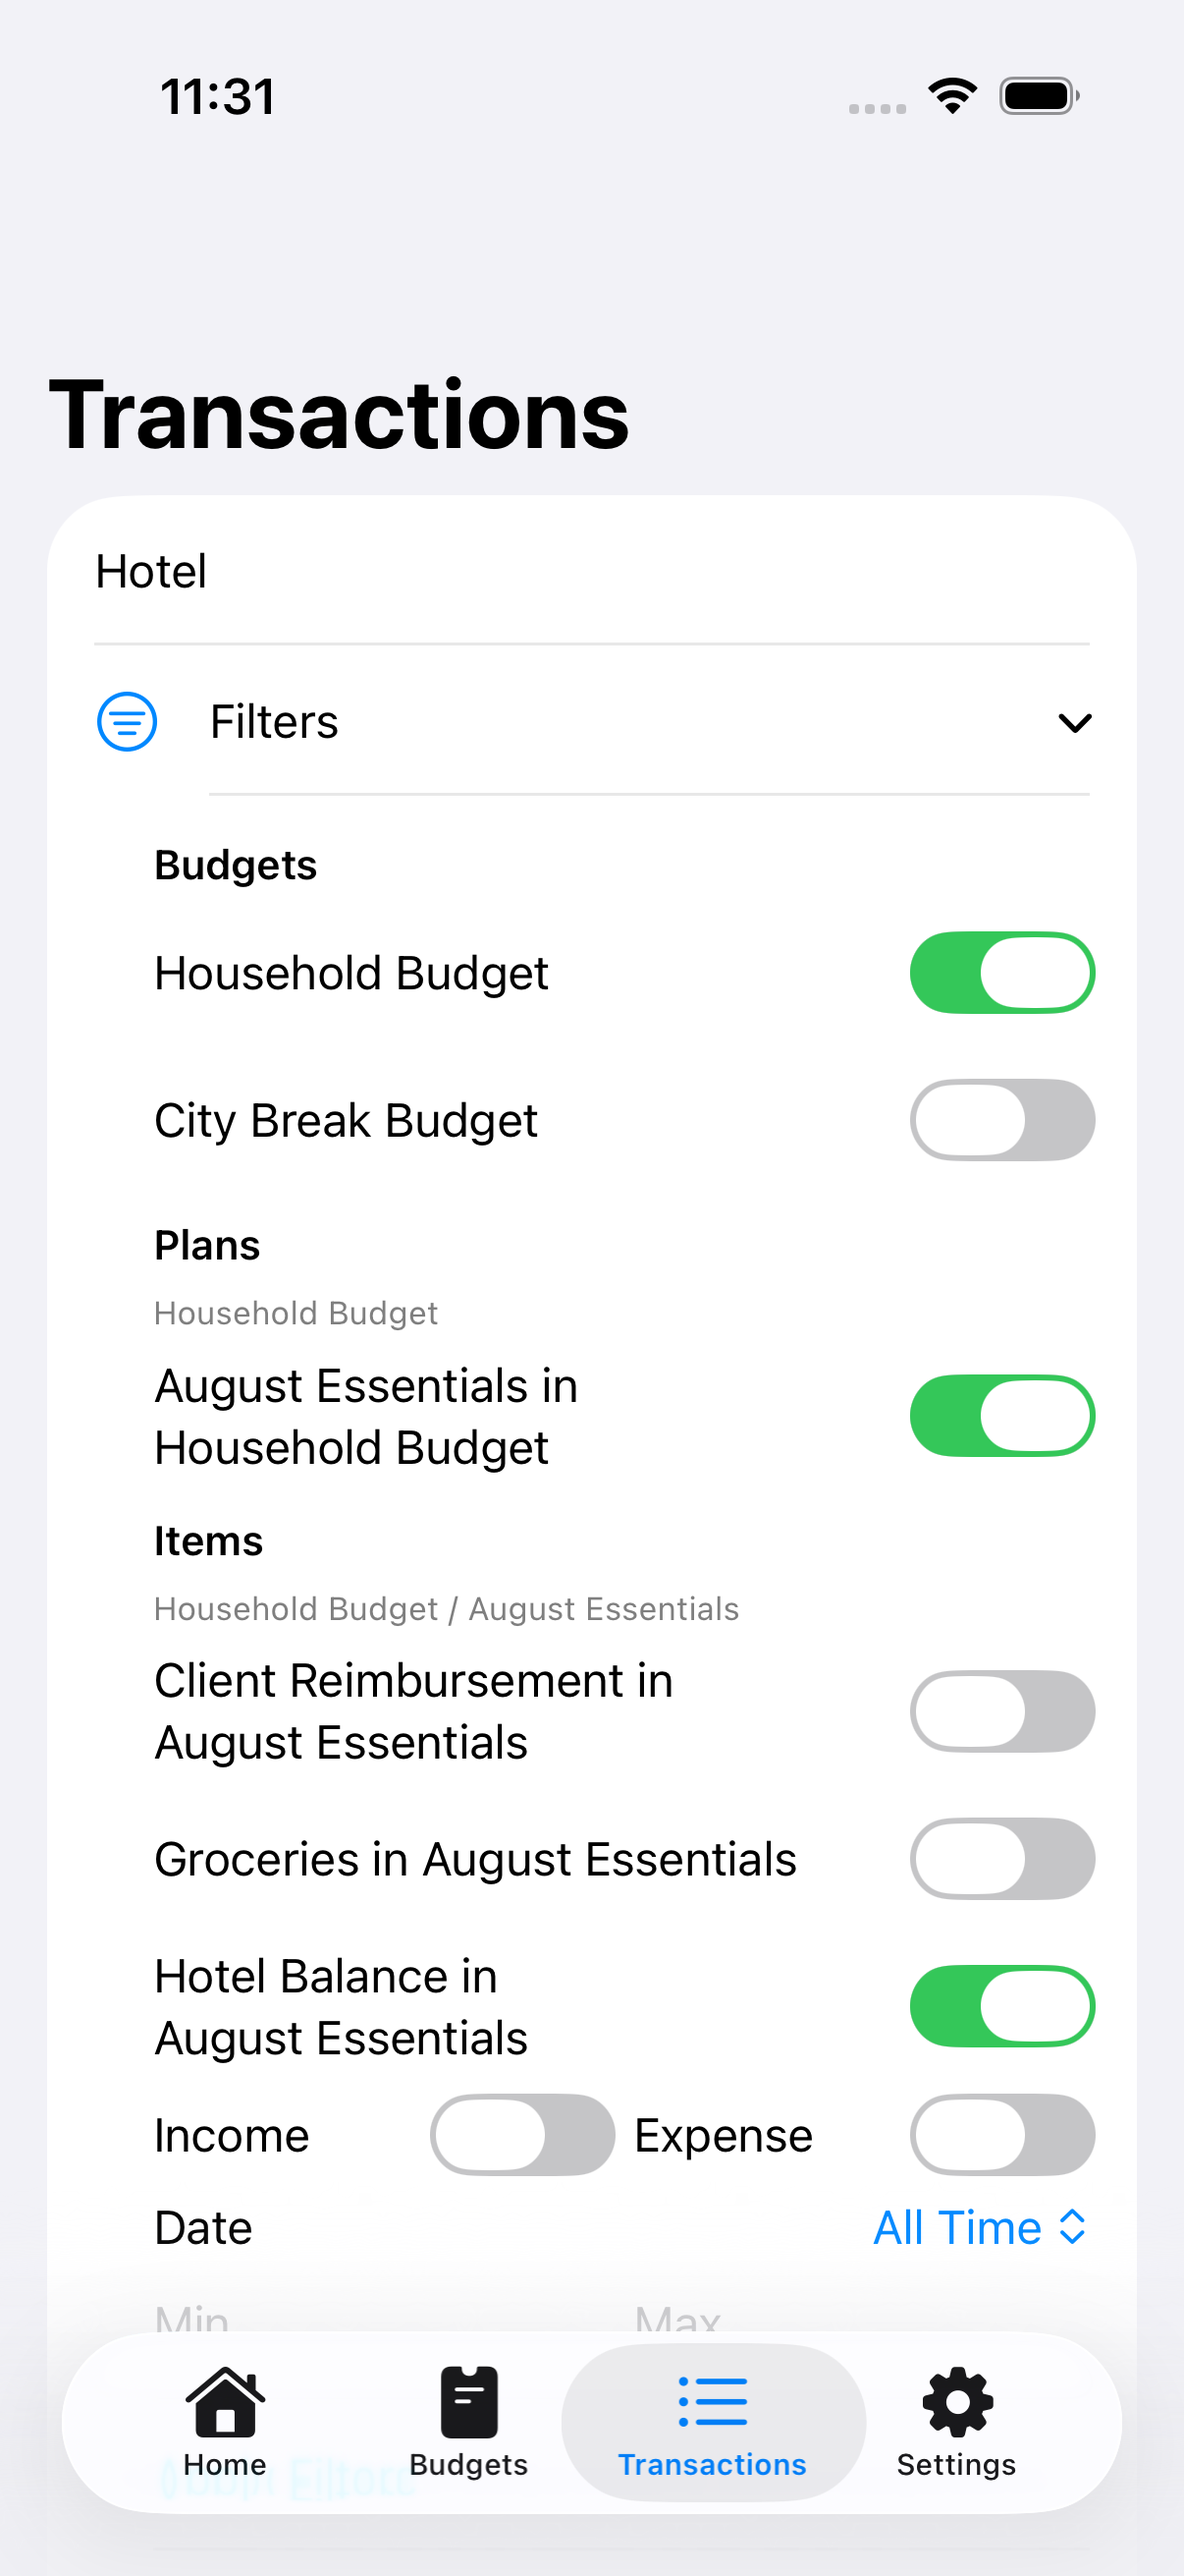
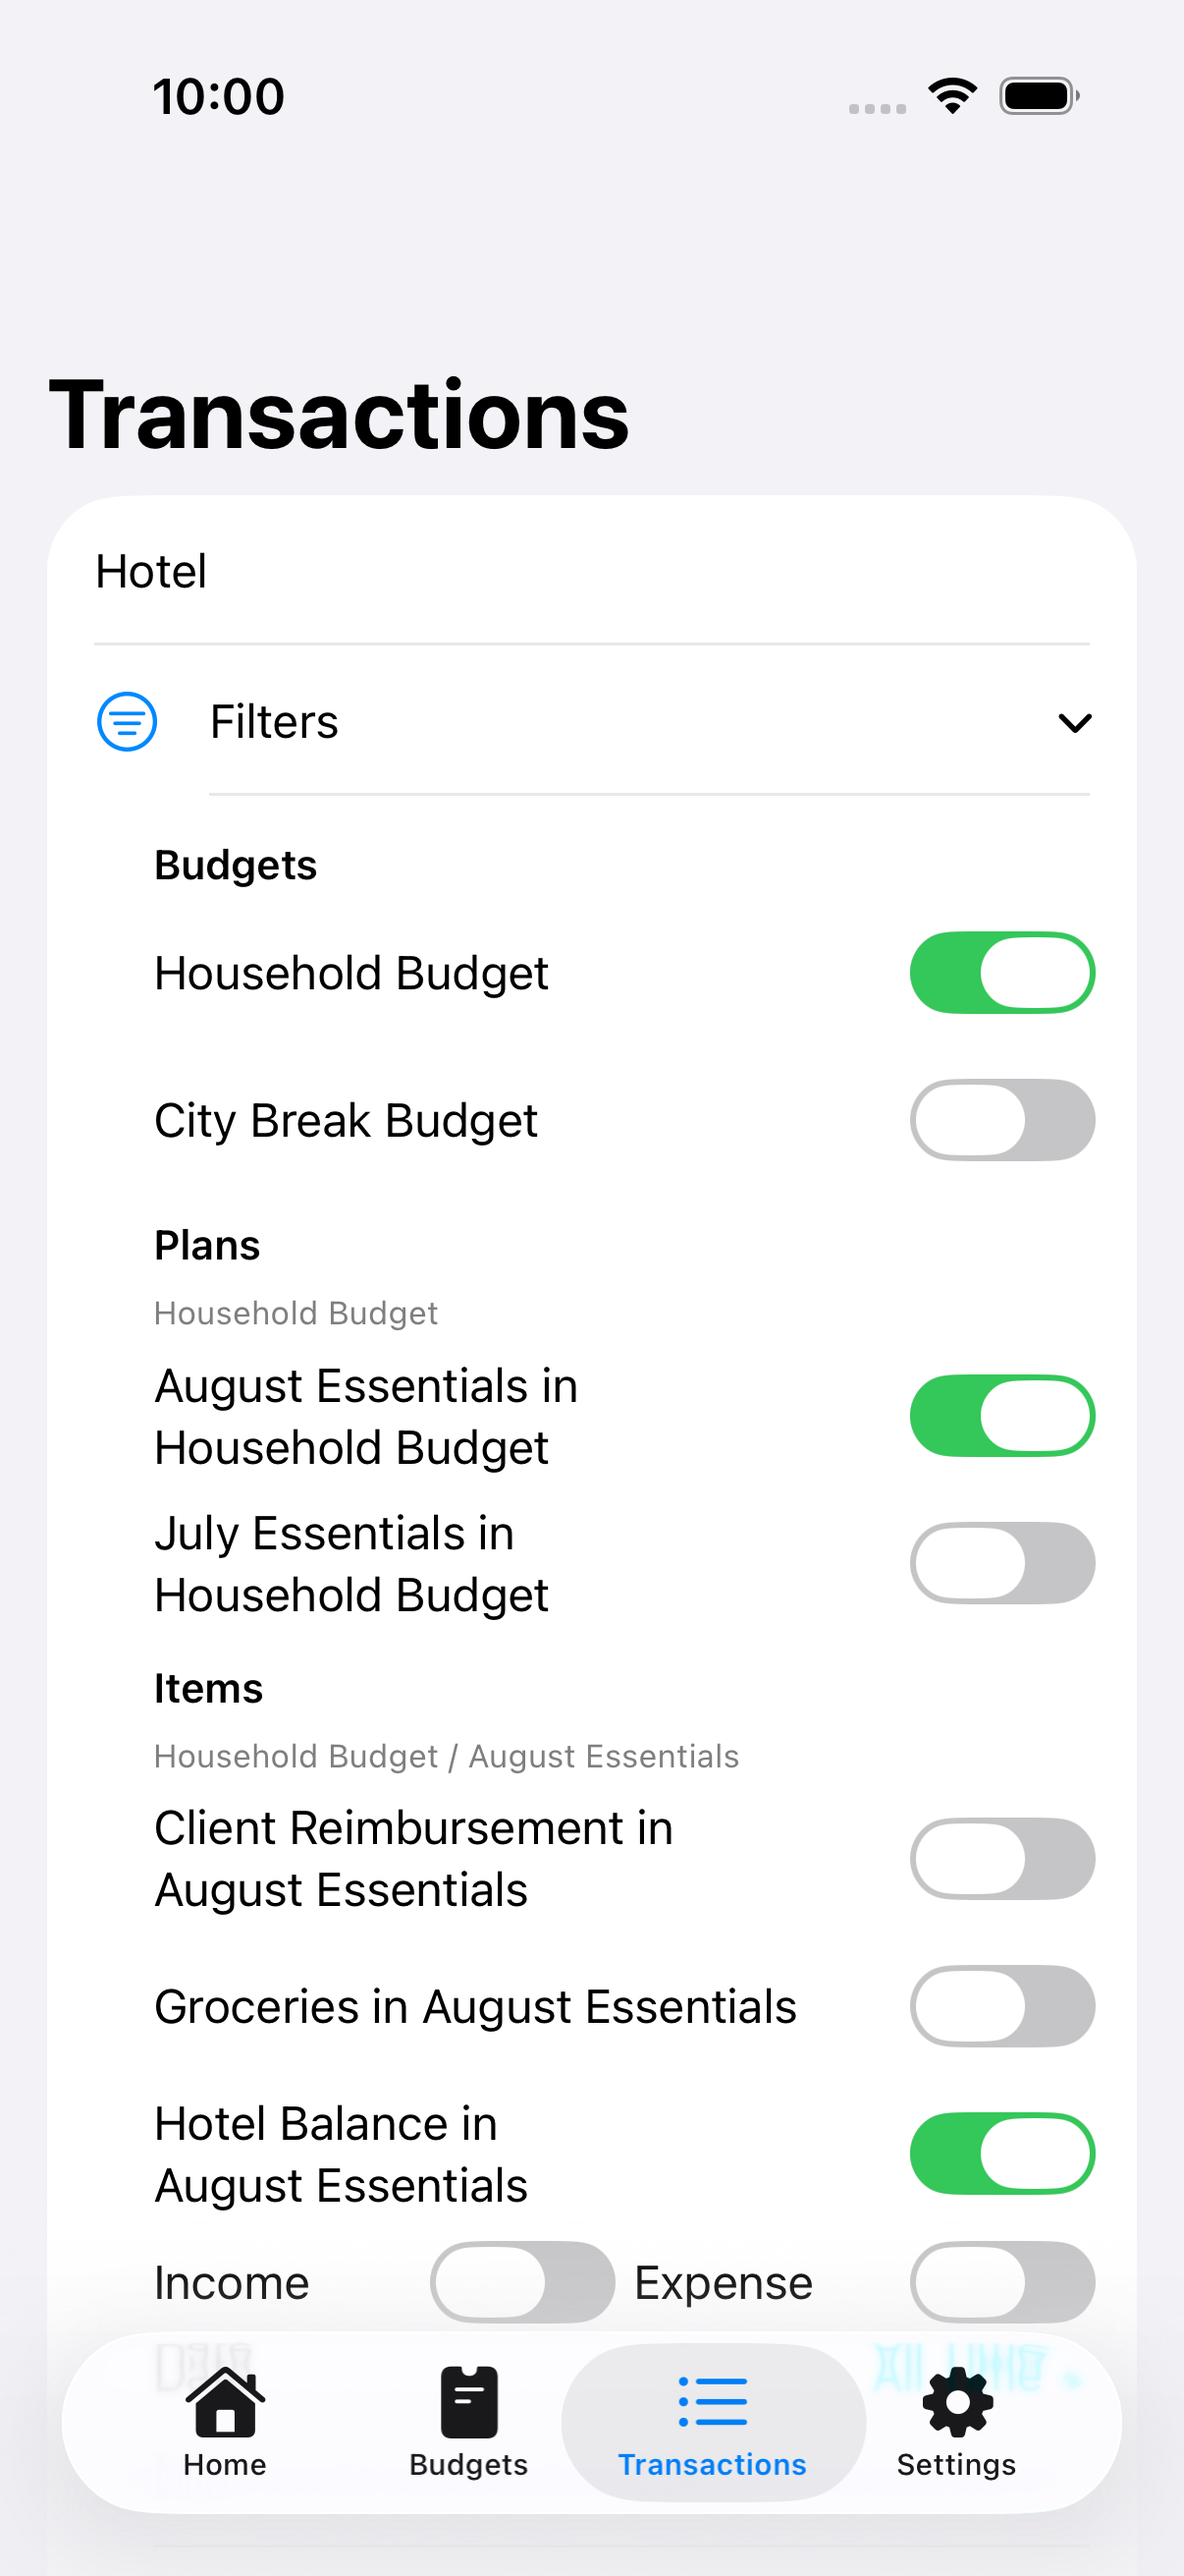
phase 4 update readme

diff --git a/CanIV2/Domain/Phase2/BudgetingCoordinator.swift b/CanIV2/Domain/Phase2/BudgetingCoordinator.swift
@@ -1048,6 +1048,11 @@ final class BudgetingCoordinator {
             let hotel = try ItemUseCase(repository: itemRepository).create(name: "Hotel Balance", unitAmount: 300, multiplier: 1, in: august, now: now)
             let reimbursement = try ItemUseCase(repository: itemRepository).create(name: "Client Reimbursement", unitAmount: 0, multiplier: 1, in: august, now: now)
 
+            let julyDate = clock.calendar.date(byAdding: .month, value: -1, to: now) ?? now.addingTimeInterval(-2_592_000)
+            let july = try PlanUseCase(repository: planRepository).create(name: "July Essentials", startingAmount: 1_100, in: household, now: julyDate)
+            _ = try ItemUseCase(repository: itemRepository).create(name: "Weekly groceries", unitAmount: 200, multiplier: 1, in: july, now: julyDate)
+            _ = try ItemUseCase(repository: itemRepository).create(name: "Utility reserve", unitAmount: 140, multiplier: 1, in: july, now: julyDate.addingTimeInterval(1))
+
             let travel = try BudgetUseCase(repository: budgetRepository).create(name: "City Break Budget", now: now.addingTimeInterval(-20))
             let weekend = try PlanUseCase(repository: planRepository).create(name: "Weekend Plan", startingAmount: 450, in: travel, now: now.addingTimeInterval(-20))
             let transit = try ItemUseCase(repository: itemRepository).create(name: "Transit Passes", unitAmount: 80, multiplier: 1, in: weekend, now: now.addingTimeInterval(-20))
@@ -1059,6 +1064,10 @@ final class BudgetingCoordinator {
             _ = try TransactionUseCase(repository: transactionRepository).create(kind: .expense, amount: 42, date: twoDaysAgo, notes: "Train tickets", item: transit, clock: FixedClock(now: now.addingTimeInterval(4), calendar: clock.calendar))
             _ = try TransactionUseCase(repository: transactionRepository).create(kind: .expense, amount: 58, date: fiveDaysAgo, notes: "Cafe lunch", item: meals, clock: FixedClock(now: now.addingTimeInterval(5), calendar: clock.calendar))
             _ = try TransactionUseCase(repository: transactionRepository).create(kind: .income, amount: 90, date: eightDaysAgo, notes: "Travel refund", item: transit, clock: FixedClock(now: now.addingTimeInterval(6), calendar: clock.calendar))
+
+            let nextWeek = clock.calendar.date(byAdding: .day, value: 7, to: now) ?? now.addingTimeInterval(604_800)
+            _ = try createRecurringTemplate(name: "Weekly groceries", amountText: "120", kind: .expense, frequency: .weekly, intervalText: "1", startDate: nextWeek, endDate: nil, budget: household, destination: groceries)
+            _ = try createRecurringTemplate(name: "Streaming renewal", amountText: "35", kind: .expense, frequency: .monthly, intervalText: "1", startDate: nextWeek, endDate: nil, budget: household, destination: nil)
 
             expandedBudgetID = household.id
             navigationSelection.selectBudget(household.id)

diff --git a/CanIV2UITests/ReadmeScreenshotCaptureTests.swift b/CanIV2UITests/ReadmeScreenshotCaptureTests.swift
@@ -16,7 +16,7 @@ final class ReadmeScreenshotCaptureTests: XCTestCase {
     @MainActor
     func testCaptureReadmeScreenshots() throws {
         let outputDirectory = ProcessInfo.processInfo.environment["README_SCREENSHOT_OUTPUT_DIR"]
-            ?? "/Users/ramonjrbahio/Documents/CanIV2/docs/screenshots"
+            ?? "/Users/ramonjrbahio/Documents/GitHub/CanIV2/docs/screenshots"
         try FileManager.default.createDirectory(atPath: outputDirectory, withIntermediateDirectories: true)
 
         let app = launchApp(selectedTab: "home")
@@ -24,11 +24,31 @@ final class ReadmeScreenshotCaptureTests: XCTestCase {
         capture("home.png", outputDirectory: outputDirectory)
 
         app.tabBars.buttons["Budgets"].tap()
+        let recurringTemplate = element(identifier: "recurring-template-Weekly groceries", in: app)
+        for _ in 0..<6 where !recurringTemplate.exists {
+            app.swipeUp()
+        }
+        XCTAssertTrue(recurringTemplate.waitForExistence(timeout: 3), app.debugDescription)
+        XCTAssertTrue(element(identifier: "recurring-template-Streaming renewal", in: app).waitForExistence(timeout: 3), app.debugDescription)
+        capture("recurring.png", outputDirectory: outputDirectory)
+
+        for _ in 0..<6 where !app.buttons["plan-row-August Essentials"].exists {
+            app.swipeDown()
+        }
         let augustPlan = app.buttons["plan-row-August Essentials"]
         XCTAssertTrue(augustPlan.waitForExistence(timeout: 10), app.debugDescription)
         augustPlan.tap()
         XCTAssertTrue(app.navigationBars["August Essentials"].waitForExistence(timeout: 10), app.debugDescription)
         capture("plan-items.png", outputDirectory: outputDirectory)
+
+        app.buttons["plan-add-menu"].tap()
+        let rollover = app.buttons["rollover-items"]
+        XCTAssertTrue(rollover.waitForExistence(timeout: 3), app.debugDescription)
+        rollover.tap()
+        XCTAssertTrue(app.navigationBars["Roll Over Items"].waitForExistence(timeout: 8), app.debugDescription)
+        XCTAssertTrue(app.buttons["rollover-item-Weekly groceries"].waitForExistence(timeout: 5), app.debugDescription)
+        capture("rollover.png", outputDirectory: outputDirectory)
+        app.buttons["Cancel"].tap()
 
         app.tabBars.buttons["Transactions"].tap()
         XCTAssertTrue(app.textFields["transactions-search"].waitForExistence(timeout: 10), app.debugDescription)
@@ -93,6 +113,10 @@ final class ReadmeScreenshotCaptureTests: XCTestCase {
         }
         XCTAssertTrue(element.waitForExistence(timeout: 1), app.debugDescription)
         element.coordinate(withNormalizedOffset: CGVector(dx: 0.92, dy: 0.5)).tap()
+    }
+
+    private func element(identifier: String, in app: XCUIApplication) -> XCUIElement {
+        app.descendants(matching: .any).matching(identifier: identifier).firstMatch
     }
 
 }

diff --git a/README.md b/README.md
@@ -19,6 +19,10 @@ Screenshots were captured from a deterministic iPhone 17 simulator dataset. See 
 |:---:|:---:|
 | ![Plan reports](docs/screenshots/reports.png) | ![Time Effort calculator](docs/screenshots/time-effort.png) |
 
+| Rollover | Recurring templates |
+|:---:|:---:|
+| ![Select Items to roll into a later Plan](docs/screenshots/rollover.png) | ![Recurring transaction templates](docs/screenshots/recurring.png) |
+
 ## What it can do
 
 - Organize finances into Budgets, Plans, Items, and Transactions.
@@ -32,6 +36,12 @@ Screenshots were captured from a deterministic iPhone 17 simulator dataset. See 
 - Review Home, Budget, and Plan reports with shared reporting periods and accessible summaries.
 - Distinguish effective income from future scheduled income.
 - Show current-year dates without repeating the year.
+- Roll selected Items from an earlier Plan into a later Plan without copying Transactions.
+- Create daily, weekly, monthly, or yearly recurring transaction templates.
+- Pause and resume templates, catch up due occurrences, and generate each occurrence exactly once.
+- Keep templates when their destination Item is deleted and let the user repair the destination.
+- Compare recurring projections separately from actual generated Transactions.
+- Hide redundant zero-value metrics and replace empty report charts with a concise empty state.
 
 ## Time Effort
 
@@ -64,10 +74,10 @@ No external package installation or service credentials are required.
 
 ## Tests
 
-The current checkpoint contains **153 tests**:
+The current checkpoint contains **167 enabled tests**:
 
-- 106 domain, service, persistence, and coordinator tests
-- 47 UI tests
+- 118 domain, service, persistence, and coordinator tests
+- 49 UI tests
 
 Run the shared `CanIV2.xctestplan` from Xcode. Some end-to-end UI tests are intentionally split into smaller cases to remain within the test runner's per-call time limit.
 
@@ -81,16 +91,17 @@ Run the shared `CanIV2.xctestplan` from Xcode. Some end-to-end UI tests are inte
 
 ## Project status
 
-Completed work includes the core hierarchy, search and filters, reports, observation refinements, deletion safety, and Time Effort.
+Completed work includes the core hierarchy, search and filters, reports, observation refinements, deletion safety, Time Effort, rollover, and recurring transactions.
 
 Planned phases include:
 
-- Rollover and recurring transactions
 - On-device receipt capture and OCR
 - Device-to-device transfer
 - Broader device, accessibility, migration, recovery, and release hardening
 
-Before release, the project still needs broader device verification and a complete legacy-store migration and startup-recovery test matrix.
+Phase 4 adds no production model fields: it uses the rollover and recurrence fields already present in the Phase 3 SwiftData schema. An on-disk Phase 3-shaped store reopen test verifies that existing records and relationships survive. Future schema changes must add explicit migration coverage before shipping.
+
+Before release, the project still needs broader device verification and a complete legacy-store migration and startup-recovery failure matrix.
 
 Detailed product and implementation decisions live in [`PRODUCT_SPEC.md`](PRODUCT_SPEC.md), [`UI_SPEC.md`](UI_SPEC.md), and the phase briefs in this repository.
 

diff --git a/docs/screenshots/README.md b/docs/screenshots/README.md
@@ -1,6 +1,6 @@
 # README screenshot capture
 
-Capture these five screens from an **iPhone 17 simulator in portrait**, using the same deterministic fictional dataset and the app's default text size.
+Capture these seven screens from an **iPhone 17 simulator in portrait**, using the same deterministic fictional dataset and the app's default text size.
 
 | File | Screen | What should be visible |
 | --- | --- | --- |
@@ -9,6 +9,8 @@ Capture these five screens from an **iPhone 17 simulator in portrait**, using th
 | `transactions.png` | Transactions | Submitted results plus expanded hierarchical Budget → Plan → Item filters |
 | `reports.png` | Plan Reports | A meaningful report chart, summary, and breakdown |
 | `time-effort.png` | Time Effort | Calculator result and assumptions, with salary itself hidden |
+| `rollover.png` | Roll Over Items | An earlier source Plan and selectable Items being carried into a later Plan |
+| `recurring.png` | Budget detail | Active and Needs Destination recurring templates with distinct statuses |
 
 ## Capture rules
 
@@ -22,4 +24,6 @@ Capture these five screens from an **iPhone 17 simulator in portrait**, using th
 
 Xcode or a simulator-capable coding agent can launch the app, seed the data, navigate to each state, and save screenshots with Simulator's capture command or `xcrun simctl io booted screenshot <path>`.
 
-After all five files exist, replace the screenshot comment in the root `README.md` with the prepared Markdown table inside that comment.
+Run only `ReadmeScreenshotCaptureTests/testCaptureReadmeScreenshots`. It refreshes all seven images; no unrelated test is needed.
+
+After all seven files exist, replace the Phase 4 screenshot comment in the root `README.md` with the prepared Markdown table inside that comment.
